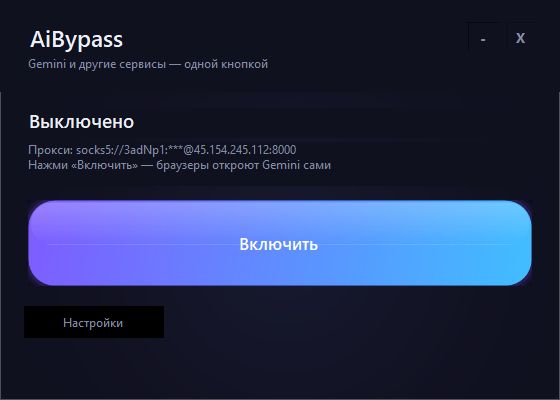
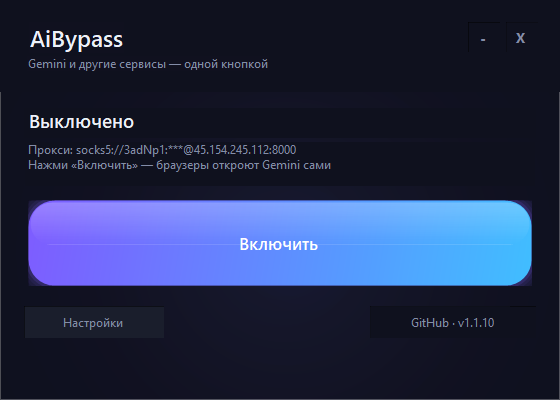
1.1.10: ссылка на репозиторий в окне
- кнопка «GitHub · версия» справа от «Настройки» открывает страницу программы
- в настройках подписано, где брать новые версии
- исправлено двоение текста в кнопках: фон не заливался и новый кадр
  рисовался поверх старого

diff --git a/src/Gui.cs b/src/Gui.cs
@@ -81,6 +81,7 @@ namespace AiBypass
         {
             Graphics g = pe.Graphics;
             g.SmoothingMode = SmoothingMode.AntiAlias;
+            using (SolidBrush bg = new SolidBrush(BackColor)) { g.FillRectangle(bg, ClientRectangle); }
 
             Rectangle r = new Rectangle(0, 0, Width - 1, Height - 1);
 
@@ -161,10 +162,12 @@ namespace AiBypass
         protected override void OnPaint(PaintEventArgs pe)
         {
             pe.Graphics.SmoothingMode = SmoothingMode.AntiAlias;
+            // заливаем фон целиком: иначе текст рисуется поверх прошлого кадра и «двоится»
+            using (SolidBrush bg = new SolidBrush(BackColor)) { pe.Graphics.FillRectangle(bg, ClientRectangle); }
             if (hover)
             {
                 using (GraphicsPath p = Ui.Round(new Rectangle(0, 0, Width - 1, Height - 1), Radius))
-                using (SolidBrush b = new SolidBrush(FillHover)) { pe.Graphics.FillPath(b, p); }
+                using (SolidBrush b = new SolidBrush(Color.FromArgb(150, FillHover))) { pe.Graphics.FillPath(b, p); }
             }
             TextRenderer.DrawText(pe.Graphics, Text, Font, ClientRectangle, TextColor,
                 TextFormatFlags.HorizontalCenter | TextFormatFlags.VerticalCenter);
@@ -231,6 +234,7 @@ namespace AiBypass
 
     internal static class Gui
     {
+        private const string RepoUrl = "https://github.com/FermerRen2/ai-bypass";
         private const int W = 560;
         private const int HeightClosed = 400;
         private const int HeightOpen = 900;
@@ -473,6 +477,14 @@ namespace AiBypass
             settingsLink.FillHover = Color.FromArgb(40, 46, 66);
             settingsLink.Click += new EventHandler(OnToggleSettings);
             form.Controls.Add(settingsLink);
+
+            FlatButton repoLink = new FlatButton();
+            repoLink.SetBounds(W - 190, 306, 166, 32);
+            repoLink.Text = "GitHub · v1.1.10";
+            repoLink.Font = new Font("Segoe UI", 8.5f);
+            repoLink.BackColor = Theme.BgTop;
+            repoLink.Click += new EventHandler(OpenRepo);
+            form.Controls.Add(repoLink);
         }
 
         private static void BuildSettings()
@@ -517,7 +529,7 @@ namespace AiBypass
             card.Controls.Add(bPull);
 
             Label hint = new Label();
-            hint.Text = "Всё остальное настроено заранее: галочек и списков больше нет.";
+            hint.Text = "Исходники и новые версии: github.com/FermerRen2/ai-bypass";
             hint.SetBounds(18, 172, 484, 18);
             hint.ForeColor = Theme.Muted;
             hint.BackColor = Theme.BgTop;
@@ -648,6 +660,16 @@ namespace AiBypass
         {
             if (log == null) { return; }
             log.AppendText("[" + DateTime.Now.ToString("HH:mm:ss") + "] " + s + Environment.NewLine);
+        }
+
+        private static void OpenRepo(object sender, EventArgs e)
+        {
+            try
+            {
+                System.Diagnostics.Process.Start(RepoUrl);
+                Write("Открыл страницу программы: " + RepoUrl);
+            }
+            catch (Exception ex) { Write("Не смог открыть ссылку: " + ex.Message); }
         }
 
         private static void OnToggleSettings(object sender, EventArgs e)

diff --git a/src/AssemblyInfo.cs b/src/AssemblyInfo.cs
@@ -5,8 +5,8 @@ using System.Runtime.InteropServices;
 [assembly: AssemblyDescription("Обход геоблокировок для ИИ-сервисов и соцсетей через hosts и DNS")]
 [assembly: AssemblyProduct("AiBypass")]
 [assembly: AssemblyCopyright("MIT License")]
-[assembly: AssemblyVersion("1.1.9.0")]
-[assembly: AssemblyFileVersion("1.1.9.0")]
+[assembly: AssemblyVersion("1.1.10.0")]
+[assembly: AssemblyFileVersion("1.1.10.0")]
 [assembly: ComVisible(false)]
 
 // Без этого атрибута рантайм считает сборку старой и включает TLS 1.0,

diff --git a/src/Program.cs b/src/Program.cs
@@ -58,7 +58,7 @@ namespace AiBypass
                 {
                     case "--version":
                     case "-v":
-                        Console.WriteLine("AiBypass 1.1.9");
+                        Console.WriteLine("AiBypass 1.1.10");
                         return 0;
 
                     case "--state":

diff --git a/CHANGELOG.md b/CHANGELOG.md
@@ -1,4 +1,15 @@
-## [1.1.9] — 2026-11-09
+## [1.1.10] — 2026-11-09
+
+### Добавлено
+
+* Ссылка на репозиторий прямо в окне: кнопка «GitHub · v1.1.10» справа от «Настройки»
+  открывает страницу программы, а в настройках подписано, где брать новые версии.
+
+### Исправлено
+
+* Текст в кнопках «двоился»: фон не заливался, новый кадр рисовался поверх старого.
+  Теперь все кнопки заливают фон перед отрисовкой.
+## [1.1.9] — 2026-11-09
 
 Премиальное оформление и починка интерфейса.
 
